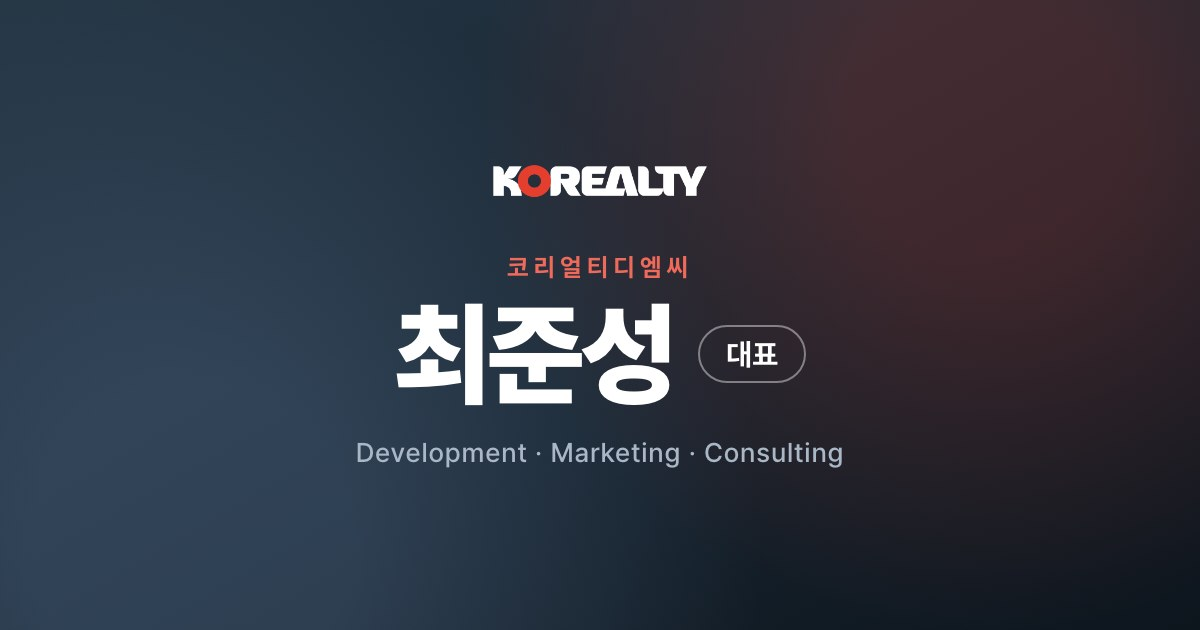
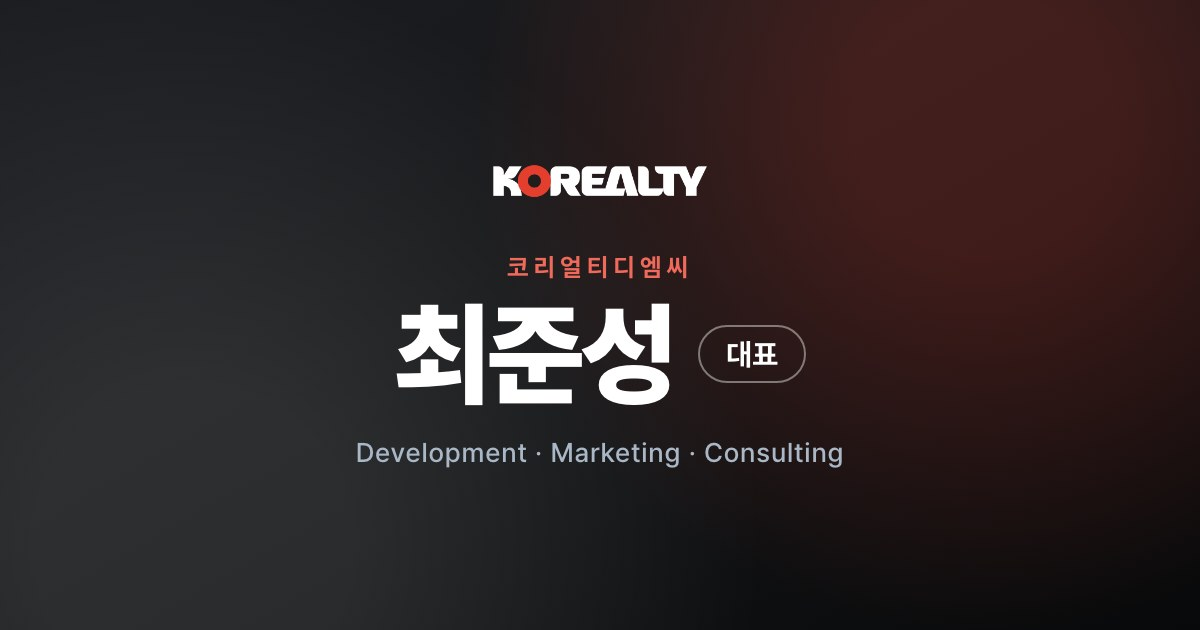
인트로와 미리보기 배경을 색기운 없는 먹빛으로 바꾼다
어두운 남색이 초록빛으로 보인다는 지적이 있었다. 값 자체는 파란 쪽이지만
(#22323F 는 R34 G50 B63) 녹색 채널이 상대적으로 높아 화면에 따라 청록으로
읽힌다. 무채색으로 가면 그렇게 보일 여지가 없고, 워드마크의 빨간 O 도
가장 또렷하게 살아난다. 흰 명함이 올라올 때 대비도 가장 크다.

후보 네 가지(밝은 CI 네이비·중성 차콜·딥 버건디·먹빛 블랙)를 나란히
렌더해 비교한 뒤 먹빛을 골랐다.

카톡 미리보기 이미지도 같은 남색이었으므로 함께 맞췄다. 두 화면 모두
브랜드가 처음 보이는 자리라 색이 다르면 따로 논다. 미리보기는 카카오가
자체 서버에 캐시하므로 주소 뒤 ?v= 를 올려 새 이미지를 읽게 한다.

diff --git a/card.html b/card.html
@@ -17,7 +17,7 @@
 <meta property="og:description" content="전화·이메일·오시는 길. 버튼 한 번으로 연락처가 저장됩니다.">
 <!-- 명함 전용 미리보기. 회사 og.jpg 를 쓰면 명함 링크에 회사 배너가 뜬다.
      tools/build-og-card.py 로 만든다. -->
-<meta property="og:image" content="https://korealty.co.kr/assets/img/og-card.jpg?v=1">
+<meta property="og:image" content="https://korealty.co.kr/assets/img/og-card.jpg?v=2">
 <meta property="og:image:type" content="image/jpeg">
 <meta property="og:image:width" content="1200">
 <meta property="og:image:height" content="630">
@@ -95,7 +95,9 @@
   .splash{
     position:fixed; inset:0; z-index:40;
     display:grid; place-items:center;
-    background:linear-gradient(160deg,#22323f 0%, #16222c 55%, #0e1720 100%);
+    /* 색기운이 없는 먹빛. 어두운 남색은 초록빛으로 보인다는 지적이 있었고,
+       무채색이면 그 여지가 없는 데다 워드마크의 빨간 O 가 가장 또렷하다. */
+    background:linear-gradient(160deg,#1A1B1E 0%, #101113 55%, #08090A 100%);
     animation:splash-out .45s ease .82s both;
   }
   .splash img{

diff --git a/tools/build-og-card.py b/tools/build-og-card.py
@@ -36,9 +36,9 @@ HTML = """<!doctype html><meta charset="utf-8">
     text-align:center;
     font-family:"Pretendard",system-ui,sans-serif;color:#fff;
     background:
-      radial-gradient(circle at 82% 20%, rgba(226,61,44,.20) 0 12%, rgba(226,61,44,0) 46%),
-      radial-gradient(circle at 16% 86%, rgba(90,116,150,.35) 0 14%, rgba(90,116,150,0) 50%),
-      linear-gradient(150deg,#263746 0%, #17242f 55%, #0d151d 100%);
+      radial-gradient(circle at 82% 20%, rgba(226,61,44,.22) 0 12%, rgba(226,61,44,0) 46%),
+      radial-gradient(circle at 16% 86%, rgba(255,255,255,.10) 0 14%, rgba(255,255,255,0) 50%),
+      linear-gradient(150deg,#1D1E21 0%, #131416 55%, #08090A 100%);
     -webkit-font-smoothing:antialiased;
   }
   .wm{height:38px;width:auto;display:block;margin-bottom:52px;}
